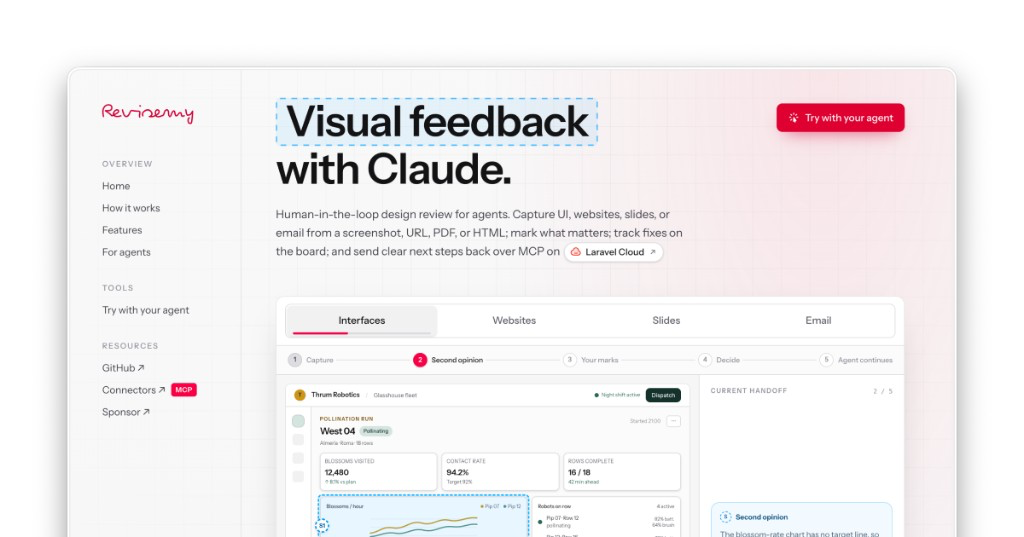
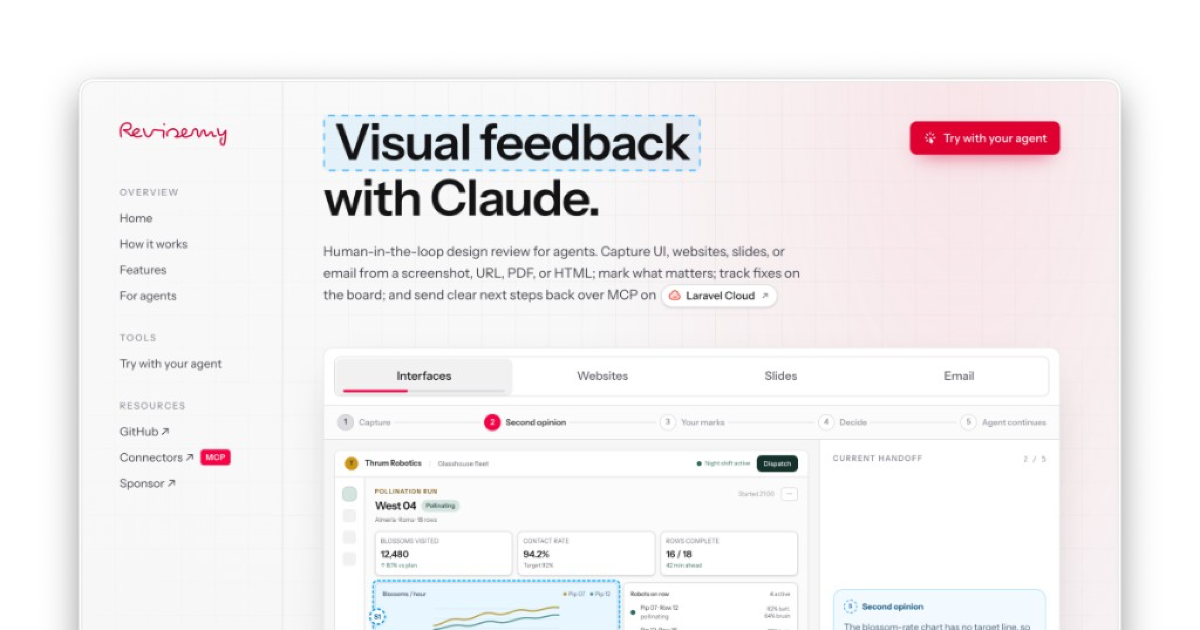
Resize OG image to 1200x630 and bump cache version.
Match standard social card dimensions and invalidate crawlers with og_image_version 3.

diff --git a/config/seo.php b/config/seo.php
@@ -58,10 +58,10 @@ return [
     'og_image' => '/images/og.png',
 
     // Bump when public/images/og.png changes so social crawlers fetch the new card.
-    'og_image_version' => '2',
+    'og_image_version' => '3',
 
-    'og_image_width' => 1024,
+    'og_image_width' => 1200,
 
-    'og_image_height' => 537,
+    'og_image_height' => 630,
 
 ];

diff --git a/resources/views/components/seo-head.blade.php b/resources/views/components/seo-head.blade.php
@@ -41,8 +41,8 @@
 <meta property="og:url" content="{{ $pageOgUrl }}">
 <meta property="og:image" content="{{ $pageOgImage }}">
 <meta property="og:image:alt" content="{{ $siteName }} — {{ config('seo.tagline') }}">
-<meta property="og:image:width" content="{{ config('seo.og_image_width', 1024) }}">
-<meta property="og:image:height" content="{{ config('seo.og_image_height', 537) }}">
+<meta property="og:image:width" content="{{ config('seo.og_image_width', 1200) }}">
+<meta property="og:image:height" content="{{ config('seo.og_image_height', 630) }}">
 
 <meta name="twitter:card" content="summary_large_image">
 <meta name="twitter:site" content="{{ config('seo.twitter') }}">

diff --git a/resources/views/layouts/app.blade.php b/resources/views/layouts/app.blade.php
@@ -20,8 +20,8 @@
     <meta property="og:description" content="{{ $pageDescription }}">
     <meta property="og:url" content="{{ $ogUrl }}">
     <meta property="og:image" content="{{ $ogImage }}">
-    <meta property="og:image:width" content="{{ config('seo.og_image_width', 1024) }}">
-    <meta property="og:image:height" content="{{ config('seo.og_image_height', 537) }}">
+    <meta property="og:image:width" content="{{ config('seo.og_image_width', 1200) }}">
+    <meta property="og:image:height" content="{{ config('seo.og_image_height', 630) }}">
 
     <meta name="twitter:card" content="summary_large_image">
     <meta name="twitter:title" content="{{ $pageTitle }}">